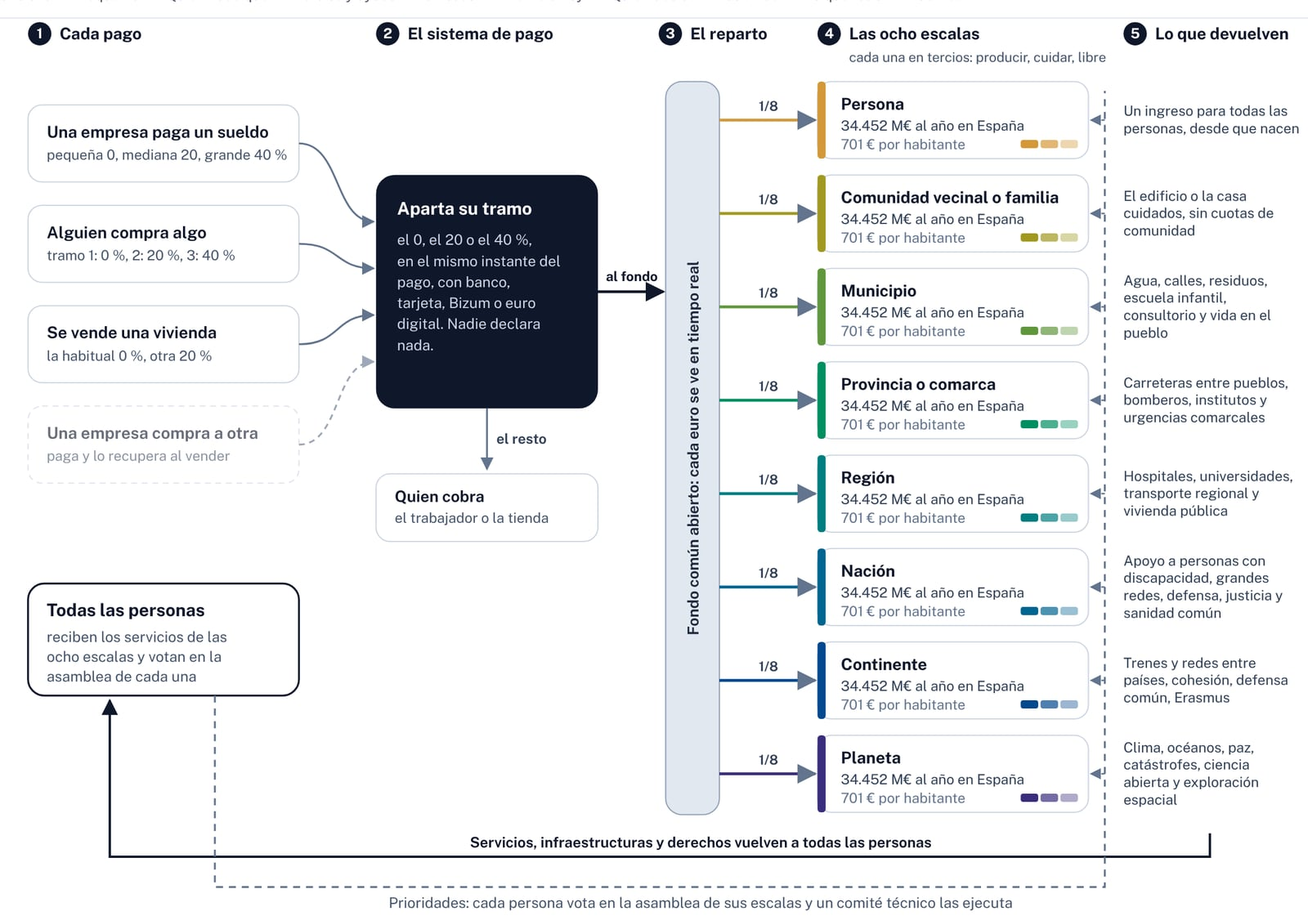
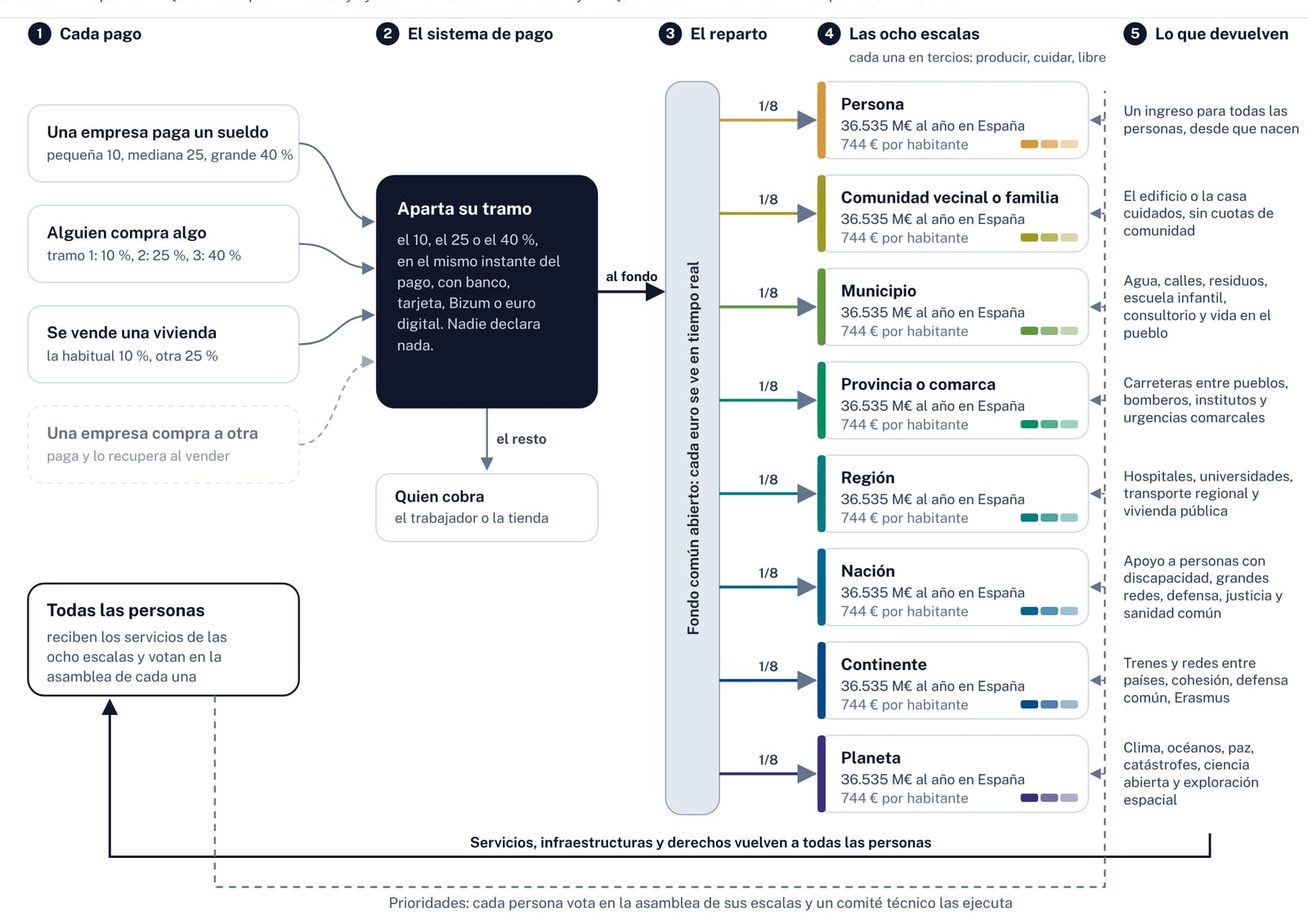
Modelo socioeconómico: tiers at 10, 25 and 40 %
Eugenio: basics pay 10 %, the middle tier 25 %, leisure and luxury 40 %.
Wages follow the same three rates by company size; the general rate for
business-to-business purchases (literal reading) is 25 %. Texts that assumed
a 0 % tier rewritten; cover image regenerated.

Claude-Session: https://claude.ai/code/session_01WLMKSBNtjPgMSjMa9TX5Hs

diff --git a/src/pages/ModeloSocioeconomico.tsx b/src/pages/ModeloSocioeconomico.tsx
@@ -1,7 +1,7 @@
 // ============================================================================
 // MODELO SOCIOECONÓMICO OPTIMIZADO (2026-11-10, Eugenio)
 // ============================================================================
-// One tax on every payment, nothing else, in three tiers (0, 20 or 40 %: by
+// One tax on every payment, nothing else, in three tiers (10, 25 or 40 %: by
 // what is bought, and for wages by the size of the company that pays them),
 // collected by the payment system itself and split in eight equal parts among
 // eight scales: person, neighbourhood or family, municipality, province, region,
@@ -73,7 +73,7 @@ export default function ModeloSocioeconomico({ enSitio }: { enSitio?: { inicio: 
     let meta = document.querySelector('meta[name="description"]') as HTMLMetaElement | null;
     const anterior = meta?.content;
     if (!meta) { meta = document.createElement('meta'); meta.name = 'description'; document.head.appendChild(meta); }
-    meta.content = 'Un único impuesto en tres tramos (0, 20 y 40 %) sobre cada pago, que el sistema de pago reparte al instante entre ocho escalas (persona, comunidad vecinal, municipio, provincia, región, nación, continente y planeta), con un tercio para producir, uno para cuidar y uno libre, comparado con el sistema fiscal español actual.';
+    meta.content = 'Un único impuesto en tres tramos (10, 25 y 40 %) sobre cada pago, que el sistema de pago reparte al instante entre ocho escalas (persona, comunidad vecinal, municipio, provincia, región, nación, continente y planeta), con un tercio para producir, uno para cuidar y uno libre, comparado con el sistema fiscal español actual.';
     return () => { document.title = titulo; if (meta) meta.content = anterior ?? ''; };
   }, []);
 
@@ -120,7 +120,7 @@ export default function ModeloSocioeconomico({ enSitio }: { enSitio?: { inicio: 
           <div>
             <h1 className="text-[2.35rem] font-[800] leading-[1.02] tracking-[-0.035em] sm:text-[3.4rem]">Modelo socioeconómico optimizado</h1>
             <p className="mt-6 max-w-[34ch] text-[1.45rem] font-medium leading-snug tracking-[-0.01em] text-slate-800 sm:text-[1.65rem]">
-              Un solo impuesto sobre cada pago, en tres tramos: nada en lo básico, un 20 % en lo secundario y un 40 % en el ocio y el lujo.
+              Un solo impuesto sobre cada pago, en tres tramos: un 10 % en lo básico, un 25 % en lo secundario y un 40 % en el ocio y el lujo.
               Llega al instante, en ocho partes iguales, a las escalas en las que vivimos.
             </p>
             <p className="mt-5 max-w-[62ch] text-[17px] leading-relaxed text-slate-600">
@@ -166,12 +166,12 @@ export default function ModeloSocioeconomico({ enSitio }: { enSitio?: { inicio: 
         <section id="como-funciona" aria-labelledby="como-funciona-titulo" className="scroll-mt-28 border-t border-slate-200 bg-white">
           <div className="mx-auto max-w-7xl px-4 py-16 sm:px-6">
             <Encabezado id="como-funciona" titulo="Cómo funciona: tres tramos y ocho partes">
-              De cada pago se aparta su tramo: nada, un 20 % o un 40 %. Lo apartado se junta y se reparte en ocho partes iguales, una por escala.
+              De cada pago se aparta su tramo: un 10 %, un 25 % o un 40 %. Lo apartado se junta y se reparte en ocho partes iguales, una por escala.
             </Encabezado>
             <ol className="grid gap-8 sm:grid-cols-2 lg:grid-cols-5">
               {[
                 { t: 'Pagas', d: 'Con tarjeta, Bizum o el móvil. El precio ya lleva su tramo dentro, como hoy el IVA.' },
-                { t: 'Se aparta el tramo', d: 'En el mismo instante, el sistema de pago separa el impuesto (0, 20 o 40\u00A0% sobre el precio sin impuesto) y el resto llega a quien cobra.' },
+                { t: 'Se aparta el tramo', d: 'En el mismo instante, el sistema de pago separa el impuesto (10, 25 o 40\u00A0% sobre el precio sin impuesto) y el resto llega a quien cobra.' },
                 { t: 'Se reparte en ocho', d: 'Lo apartado de todos los pagos se junta y cada escala recibe un octavo, lo mismo por habitante. Tu parte personal es un dividendo igual para todo el mundo.' },
                 { t: 'Cada escala, en tercios', d: 'Un tercio para comprar o mejorar medios de producción, uno para cuidados y uno libre.' },
                 { t: 'Cada escala decide', d: 'Su asamblea ciudadana elige las prioridades y su comité técnico las cumple al menor coste, de la forma más eficaz y ecológica.' },
@@ -187,7 +187,7 @@ export default function ModeloSocioeconomico({ enSitio }: { enSitio?: { inicio: 
             <div className="mt-12"><TresTramos /></div>
             <div className="mt-6"><CincoPagos /></div>
             <p className="mt-3 max-w-3xl text-sm leading-relaxed text-slate-600">
-              El tramo se suma al precio sin impuesto, como el IVA de hoy: una cena de 40 € cuesta 56 € y 16 € van al fondo. De todo lo que pagas, el fondo se queda una sexta parte en el tramo 2 y dos séptimas partes en el 3.
+              El tramo se suma al precio sin impuesto, como el IVA de hoy: una cena de 40 € cuesta 56 € y 16 € van al fondo. De todo lo que pagas, el fondo se queda una onceava parte en el tramo 1, una quinta parte en el 2 y dos séptimas partes en el 3.
             </p>
 
             <PreguntasCobro modo={modo} />
@@ -203,7 +203,7 @@ export default function ModeloSocioeconomico({ enSitio }: { enSitio?: { inicio: 
                 <div>
                   <dt className="font-semibold text-slate-900">{LECTURA_CORTA.eslabon}</dt>
                   <dd className="mt-0.5 leading-relaxed text-slate-600">
-                    La empresa paga al comprar y lo recupera al vender, como hoy el IVA. Cada producto lleva exactamente su tramo: el pan, nada; la chaqueta, el 20 %.
+                    La empresa paga al comprar y lo recupera al vender, como hoy el IVA. Cada producto lleva exactamente su tramo: el pan, el 10 %; la chaqueta, el 25 %.
                     Recauda ≈ {porcentaje(cuentasPais('eslabon').pctPIB, 0)} del PIB. Es la lectura por defecto.
                   </dd>
                 </div>

diff --git a/src/components/modeloSocioeconomico/Cuentas.tsx b/src/components/modeloSocioeconomico/Cuentas.tsx
@@ -19,7 +19,7 @@ const LECTURAS: { id: Modo; titulo: string; texto: string }[] = [
   },
   {
     id: 'literal', titulo: 'Al pie de la letra, también entre empresas',
-    texto: `Las compras entre empresas dejan además el tipo general, un ${porcentaje(TIPO_GENERAL * 100, 0)}, sin devolución. Recauda más del doble, pero el impuesto se acumula en cada eslabón de la cadena: hasta el pan del tramo 1 llega con impuesto escondido.`,
+    texto: `Las compras entre empresas dejan además el tipo general, un ${porcentaje(TIPO_GENERAL * 100, 0)}, sin devolución. Recauda más del doble, pero el impuesto se acumula en cada eslabón de la cadena: hasta el pan del tramo 1 llega con mucho más impuesto del que dice su tramo.`,
   },
 ];
 
@@ -140,10 +140,10 @@ export function LasCuentas({ modo, onModo }: { modo: Modo; onModo: (m: Modo) => 
             <h3 className="text-lg font-bold text-slate-900">Un pan del tramo 1</h3>
             <p className="mt-1 text-sm text-slate-600">El agricultor aporta 0,50 € de valor, el molino 0,30 € y la panadería 0,80 €.</p>
             <dl className="mt-3 space-y-3 text-sm">
-              <div><dt className="font-semibold text-slate-900">Sin cascada entre empresas</dt><dd className="tabular-nums text-slate-700">Cuesta {euros(pan.precioEslabon, 2)} y no lleva impuesto: {euros(pan.impuestoEslabon, 2)}.</dd></div>
+              <div><dt className="font-semibold text-slate-900">Sin cascada entre empresas</dt><dd className="tabular-nums text-slate-700">Cuesta {euros(pan.precioEslabon, 2)}, con {euros(pan.impuestoEslabon, 2)} de impuesto: su {porcentaje(TRAMO[1].tipo * 100, 0)} exacto.</dd></div>
               <div><dt className="font-semibold text-slate-900">Al pie de la letra</dt><dd className="tabular-nums text-slate-700">Cuesta {euros(pan.precioLiteral, 2)}, de los que {euros(pan.impuestoLiteral, 2)} se quedaron en el fondo por el camino: el {porcentaje((pan.impuestoLiteral / pan.precioLiteral) * 100, 0)}.</dd></div>
             </dl>
-            <p className="mt-3 text-xs leading-relaxed text-slate-500">Al pie de la letra, el tramo 1 deja de ser cero: lo pagan el molino y la panadería al comprar, y llega dentro del precio. Por eso empuja a las empresas a fusionarse para saltarse intermediarios. España tuvo un impuesto así, el IGTE, hasta que en 1986 llegó el IVA.</p>
+            <p className="mt-3 text-xs leading-relaxed text-slate-500">Al pie de la letra, el pan paga mucho más que su tramo: el molino y la panadería pagan al comprar el tipo general y llega dentro del precio. Por eso empuja a las empresas a fusionarse para saltarse intermediarios. España tuvo un impuesto así, el IGTE, hasta que en 1986 llegó el IVA.</p>
           </div>
         </div>
       </div>
@@ -234,7 +234,7 @@ export function Retos({ modo }: { modo: Modo }) {
       t: '¿Quién paga más?',
       d: (
         <>
-          La progresividad ya no sale del sueldo, sino de lo que se compra y de quién paga: con el mismo trabajo, quien está en una empresa grande aporta el 40 % de lo que vale y quien está en una pequeña, nada.
+          La progresividad ya no sale del sueldo, sino de lo que se compra y de quién paga: con el mismo trabajo, quien está en una empresa grande aporta un 40 % encima de su sueldo y quien está en una pequeña, un 10 %.
           El dividendo, igual para todas las personas, devuelve una parte. Aportación neta sobre lo que la empresa paga por cada trabajo, para el mismo hogar del caso de arriba, gastando tres cuartas partes del sueldo neto de hoy:
           <span className="mt-2 block overflow-x-auto">
             <table className="w-full min-w-[420px] text-sm tabular-nums">
@@ -259,8 +259,8 @@ export function Retos({ modo }: { modo: Modo }) {
     },
     {
       t: 'Crecer de 49 a 50 personas',
-      d: <>Con tramos por tamaño, la empresa número 50 paga de golpe el 20 % de todos sus sueldos, y la 250, el 40 %. Eso empuja a no crecer o a partirse. Contar el grupo de empresas lo frena, pero no del todo.
-        Una salida: que funcione como los tramos del IRPF, por persona contratada (las 49 primeras al 0 %, de la 50 a la 249 al 20 %, el resto al 40 %), para que crecer nunca cueste más de lo que añade.</>,
+      d: <>Con tramos por tamaño, la empresa número 50 pasa de golpe del 10 % al 25 % en todos sus sueldos, y la 250, al 40 %. Eso empuja a no crecer o a partirse. Contar el grupo de empresas lo frena, pero no del todo.
+        Una salida: que funcione como los tramos del IRPF, por persona contratada (las 49 primeras al 10 %, de la 50 a la 249 al 25 %, el resto al 40 %), para que crecer nunca cueste más de lo que añade.</>,
     },
     {
       t: 'Dónde está la línea entre necesidad y lujo',
@@ -274,7 +274,7 @@ export function Retos({ modo }: { modo: Modo }) {
     },
     {
       t: 'Comprar o alquilar una casa',
-      d: <>La vivienda en la que se vive, comprada o alquilada, va en el tramo 1 y no paga. Una segunda vivienda o una de inversión paga el {porcentaje(TRAMO[2].tipo * 100, 0)} en cada venta: {euros(200_000 * TRAMO[2].tipo)} por un piso de {euros(200_000)}, frente a los {euros(200_000 * 0.06)}–{euros(200_000 * 0.10)} del impuesto de transmisiones de hoy.
+      d: <>La vivienda en la que se vive, comprada o alquilada, va en el tramo 1, al {porcentaje(TRAMO[1].tipo * 100, 0)}. Una segunda vivienda o una de inversión paga el {porcentaje(TRAMO[2].tipo * 100, 0)} en cada venta: {euros(200_000 * TRAMO[2].tipo)} por un piso de {euros(200_000)}, frente a los {euros(200_000 * 0.06)}–{euros(200_000 * 0.10)} del impuesto de transmisiones de hoy.
         Una salida es tratar la casa usada como el resto de la cadena: que solo pague la diferencia entre lo que costó y lo que se vende.</>,
     },
     {

diff --git a/src/components/modeloSocioeconomico/EsquemaFlujos.tsx b/src/components/modeloSocioeconomico/EsquemaFlujos.tsx
@@ -1,6 +1,6 @@
 // The 2D scheme Eugenio asked for: every element, with arrows showing where
 // the money goes, how it is split and what comes back. Read left to right:
-// 1 every payment → 2 the payment system sets its tier aside (0, 20 or 40 %) →
+// 1 every payment → 2 the payment system sets its tier aside (10, 25 or 40 %) →
 // 3 the open common fund splits it in eighths → 4 each scale, in thirds, gives
 // back services; and the loop at the bottom: services go back to people,
 // people vote the priorities.
@@ -51,12 +51,12 @@ export function EsquemaFlujos({ modo, activa, onActiva, mover }: {
   const animar = mover && !poco;
 
   const pagos = [
-    { id: 'sueldo', t: 'Una empresa paga un sueldo', s: 'pequeña 0, mediana 20, grande 40 %' },
-    { id: 'compra', t: 'Alguien compra algo', s: 'tramo 1: 0 %, 2: 20 %, 3: 40 %' },
-    { id: 'vivienda', t: 'Se vende una vivienda', s: 'la habitual 0 %, otra 20 %' },
+    { id: 'sueldo', t: 'Una empresa paga un sueldo', s: 'pequeña 10, mediana 25, grande 40 %' },
+    { id: 'compra', t: 'Alguien compra algo', s: 'tramo 1: 10 %, 2: 25 %, 3: 40 %' },
+    { id: 'vivienda', t: 'Se vende una vivienda', s: 'la habitual 10 %, otra 25 %' },
     {
       id: 'empresas', t: 'Una empresa compra a otra',
-      s: modo === 'eslabon' ? 'paga y lo recupera al vender' : 'el 20 % general se queda',
+      s: modo === 'eslabon' ? 'paga y lo recupera al vender' : 'el 25 % general se queda',
       tenue: modo === 'eslabon',
     },
   ];
@@ -67,7 +67,7 @@ export function EsquemaFlujos({ modo, activa, onActiva, mover }: {
 
   return (
     <svg viewBox={`0 0 ${W} ${H}`} className="block h-auto w-full min-w-[820px] font-[inherit]" role="img"
-      aria-label="Esquema: cada pago aporta su tramo (0, 20 o 40 %) al sistema de pago, que lo pasa al fondo común; el fondo da un octavo a cada una de las ocho escalas; cada escala reparte lo suyo en tres tercios (producir, cuidar y libre) y devuelve servicios a las personas; las personas votan las prioridades de cada escala.">
+      aria-label="Esquema: cada pago aporta su tramo (10, 25 o 40 %) al sistema de pago, que lo pasa al fondo común; el fondo da un octavo a cada una de las ocho escalas; cada escala reparte lo suyo en tres tercios (producir, cuidar y libre) y devuelve servicios a las personas; las personas votan las prioridades de cada escala.">
       <defs>
         <marker id="ms-flecha" viewBox="0 0 10 10" refX="9" refY="5" markerWidth="7" markerHeight="7" orient="auto-start-reverse">
           <path d="M0 0 L10 5 L0 10 z" className="fill-slate-500" />
@@ -115,7 +115,7 @@ export function EsquemaFlujos({ modo, activa, onActiva, mover }: {
       {/* 2 · The payment system */}
       <rect x={PAS_X} y={PAS_Y} width={PAS_W} height={PAS_H} rx={16} className="fill-slate-900" />
       <text x={PAS_X + 18} y={PAS_Y + 34} fontSize={15} fontWeight={700} className="fill-white">Aparta su tramo</text>
-      {lineas('el 0, el 20 o el 40 %, en el mismo instante del pago, con banco, tarjeta, Bizum o euro digital. Nadie declara nada.', 24).map((l, k) => (
+      {lineas('el 10, el 25 o el 40 %, en el mismo instante del pago, con banco, tarjeta, Bizum o euro digital. Nadie declara nada.', 24).map((l, k) => (
         <text key={k} x={PAS_X + 18} y={PAS_Y + 60 + k * 18} fontSize={12.5} className="fill-slate-300">{l}</text>
       ))}
       {/* the rest to whoever is paid */}
@@ -215,7 +215,7 @@ export function EsquemaVertical({ modo, activa, onActiva }: { modo: Modo; activa
     <ol className="text-[15px]">
       <li className="rounded-xl border border-slate-300 bg-white p-4">
         <p className="font-bold text-slate-900">1. Cada pago</p>
-        <p className="mt-1 text-sm text-slate-600">Un sueldo (empresa pequeña 0 %, mediana 20 %, grande 40 %), una compra (tramo 1: 0 %, 2: 20 %, 3: 40 %), la venta de una vivienda{modo === 'literal' ? '; y también las compras entre empresas, al 20 %' : '. Cuando una empresa compra a otra, paga y lo recupera al vender'}.</p>
+        <p className="mt-1 text-sm text-slate-600">Un sueldo (empresa pequeña 10 %, mediana 25 %, grande 40 %), una compra (tramo 1: 10 %, 2: 25 %, 3: 40 %), la venta de una vivienda{modo === 'literal' ? '; y también las compras entre empresas, al 25 %' : '. Cuando una empresa compra a otra, paga y lo recupera al vender'}.</p>
       </li>
       <Flecha />
       <li className="rounded-xl bg-slate-900 p-4 text-white">

diff --git a/src/data/modeloSocioeconomico.ts b/src/data/modeloSocioeconomico.ts
@@ -142,7 +142,7 @@ export const ESCALAS: Escala[] = [
 export const ESCALA = Object.fromEntries(ESCALAS.map(e => [e.id, e])) as Record<EscalaId, Escala>;
 
 /** The general rate: tier 2, and what business-to-business payments carry in the literal reading. */
-export const TIPO_GENERAL = 0.20;
+export const TIPO_GENERAL = 0.25;
 /** What each scale receives of whatever is collected. */
 export const OCTAVO = 1 / ESCALAS.length;
 /** Share of a payment (tax included) that goes to the fund when the rate t goes on top of the price. */
@@ -151,13 +151,14 @@ export const fraccion = (t: number) => t / (1 + t);
 // ── THE THREE TIERS ─────────────────────────────────────────────────────────
 // The rate goes ON TOP of the price without tax, like today's VAT (Eugenio,
 // 2026-11-11): a dinner worth 40 € in tier 3 costs 56 €, and 16 € go to the fund.
-// Of every euro paid, the fund gets `fraccion(t)` = t / (1 + t): 1/6 at 20 %, 2/7 at 40 %.
+// Of every euro paid, the fund gets `fraccion(t)` = t / (1 + t): 1/11 at 10 %, 1/5 at 25 %, 2/7 at 40 %.
+// Rates 10 / 25 / 40 % (Eugenio, 2026-11-11, replacing 0 / 20 / 40); wages follow the same three rates by company size.
 // Wages too: the employer pays the wage plus its tier on top.
 export type Tramo = 1 | 2 | 3;
 export interface TramoInfo { id: Tramo; tipo: number; nombre: string; compras: string; sueldos: string }
 export const TRAMOS: TramoInfo[] = [
-  { id: 1, tipo: 0, nombre: 'Primera necesidad', compras: 'Agua, energía, la vivienda en la que se vive, movilidad, comida, salud y educación', sueldos: 'Empresas pequeñas, de menos de 50 personas' },
-  { id: 2, tipo: 0.2, nombre: 'Segunda necesidad', compras: 'Segunda vivienda, segundo vehículo, ropa, muebles, móvil e internet, seguros, cuidado personal', sueldos: 'Empresas medianas, de 50 a 249 personas' },
+  { id: 1, tipo: 0.1, nombre: 'Primera necesidad', compras: 'Agua, energía, la vivienda en la que se vive, movilidad, comida, salud y educación', sueldos: 'Empresas pequeñas, de menos de 50 personas' },
+  { id: 2, tipo: 0.25, nombre: 'Segunda necesidad', compras: 'Segunda vivienda, segundo vehículo, ropa, muebles, móvil e internet, seguros, cuidado personal', sueldos: 'Empresas medianas, de 50 a 249 personas' },
   { id: 3, tipo: 0.4, nombre: 'Ocio y lujo', compras: 'Restaurantes, bares, hoteles, viajes, ocio, alcohol, tabaco y lujo', sueldos: 'Empresas grandes, de 250 personas o más' },
 ];
 export const TRAMO = Object.fromEntries(TRAMOS.map(t => [t.id, t])) as Record<Tramo, TramoInfo>;
@@ -166,8 +167,8 @@ export const TRAMO = Object.fromEntries(TRAMOS.map(t => [t.id, t])) as Record<Tr
 export type Empleador = 'pequena' | 'mediana' | 'grande' | 'publica';
 export interface EmpleadorInfo { id: Empleador; nombre: string; corto: string; tipo: number; tramo: Tramo | null; nota?: string }
 export const EMPLEADORES: EmpleadorInfo[] = [
-  { id: 'pequena', nombre: 'Empresa pequeña (menos de 50 personas)', corto: 'Pequeña', tipo: 0, tramo: 1 },
-  { id: 'mediana', nombre: 'Empresa mediana (de 50 a 249)', corto: 'Mediana', tipo: 0.2, tramo: 2 },
+  { id: 'pequena', nombre: 'Empresa pequeña (menos de 50 personas)', corto: 'Pequeña', tipo: 0.1, tramo: 1 },
+  { id: 'mediana', nombre: 'Empresa mediana (de 50 a 249)', corto: 'Mediana', tipo: 0.25, tramo: 2 },
   { id: 'grande', nombre: 'Empresa grande (250 o más)', corto: 'Grande', tipo: 0.4, tramo: 3 },
   { id: 'publica', nombre: 'Una administración o una escala', corto: 'Administración', tipo: 0, tramo: null, nota: 'No paga: sería cobrarse a sí misma y mover dinero público de una escala a otra' },
 ];
@@ -645,7 +646,7 @@ export const HOY = {
 };
 
 // ── THE COUNTRY'S ACCOUNTS UNDER THE MODEL ──────────────────────────────────
-/** Final demand ≈ GDP plus imports (≈ 1,33 × GDP): what the business-to-business 20 % ends up inside of. Estimate. */
+/** Final demand ≈ GDP plus imports (≈ 1,33 × GDP): what the business-to-business general rate ends up inside of. Estimate. */
 const DEMANDA_FINAL = ESPANA.pib * 1.33;
 
 export function cuentasPais(modo: Modo, clasif: Clasificacion = CLASIFICACION_INICIAL) {

diff --git a/src/components/modeloSocioeconomico/TuCaso.tsx b/src/components/modeloSocioeconomico/TuCaso.tsx
@@ -141,9 +141,9 @@ export function TuCaso({ modo, ejemplo, onEjemplo }: { modo: Modo; ejemplo: Ejem
           <p className="mt-3 text-xs leading-relaxed text-slate-500">
             Por sus manos pasan {euros(r.maneja)} al año ({euros(dia(r.maneja), 2)} al día): lo que vale su trabajo más lo que compra.
             La empresa paga lo mismo que hoy; los precios cambian: la misma cesta cuesta {euros(mes(r.gastoModelo))} al mes en vez de {euros(sumaGasto(ejemplo.gasto))}.
-            Lo de primera necesidad {cambio(1) < 0 ? 'baja' : 'sube'} un {porcentaje(Math.abs(cambio(1)), 0)}, porque pierde el IVA y los impuestos especiales de hoy;
+            Lo de primera necesidad {cambio(1) < 0 ? 'baja' : 'sube'} un {porcentaje(Math.abs(cambio(1)), 0)}, porque su {porcentaje(TRAMO[1].tipo * 100, 0)} sustituye al IVA y los impuestos especiales de hoy;
             lo de segunda necesidad sube un {porcentaje(cambio(2), 0)} y el ocio y el lujo, un {porcentaje(cambio(3), 0)}
-            {modo === 'literal' ? ', contando el 20 % que se pagan las empresas entre sí y acaba dentro de los precios' : ''}.
+            {modo === 'literal' ? ', contando el 25 % que se pagan las empresas entre sí y acaba dentro de los precios' : ''}.
             De su dividendo, un tercio ({euros(r.dividendo / 3)}) va a sus participaciones en lo que produce, otro a cuidados y otro es libre.
           </p>
         </div>
@@ -178,7 +178,7 @@ export function TuCaso({ modo, ejemplo, onEjemplo }: { modo: Modo; ejemplo: Ejem
             su comunidad y su municipio, en préstamos al IPC y en un trabajo u ocupación; si llega a tener una discapacidad, en el apoyo en especie.
             Y hay menos servicios públicos: por habitante, unos {euros(serviciosModelo)} entre servicios e inversión al año en lugar de {euros(serviciosHoy)}{' '}
             (lo cuentan «Frente a hoy» y «Lo que falta por resolver»).
-            {r.tipoSueldo === 0 && ejemplo.empleador !== 'publica' && <> Gran parte de la diferencia viene de que su empresa es pequeña: su sueldo no paga nada.</>}
+            {ejemplo.empleador === 'pequena' && <> Gran parte de la diferencia viene de que su empresa es pequeña: su sueldo paga solo el {porcentaje(r.tipoSueldo * 100, 0)}.</>}
           </p>
         </div>
       </div>

diff --git a/src/components/modeloSocioeconomico/Comparativa.tsx b/src/components/modeloSocioeconomico/Comparativa.tsx
@@ -41,7 +41,7 @@ export function Piezas() {
         <h3 className="text-lg font-bold">Con el modelo: 1</h3>
         <p className="mt-1 text-sm text-slate-300">Un solo impuesto sobre cada pago, con tres tramos. Lo aparta el sistema de pago y llega ya repartido:</p>
         <div className="mt-5 flex items-stretch gap-3">
-          <span aria-hidden className="grid h-24 w-24 shrink-0 place-items-center rounded-lg bg-white text-center text-lg font-[800] leading-tight tracking-tight text-slate-900">0 · 20<br />· 40 %</span>
+          <span aria-hidden className="grid h-24 w-24 shrink-0 place-items-center rounded-lg bg-white text-center text-lg font-[800] leading-tight tracking-tight text-slate-900">10 · 25<br />· 40 %</span>
           <ul className="grid flex-1 grid-cols-2 gap-x-3 gap-y-1 text-xs text-slate-200">
             {ESCALAS.map(e => <li key={e.id} className="flex items-center gap-1.5"><Muestra color={e.color} />{e.corto}</li>)}
           </ul>
@@ -82,7 +82,7 @@ export function Costes() {
 export function Tabla({ modo }: { modo: Modo }) {
   const pais = cuentasPais(modo);
   const filas: [string, React.ReactNode, React.ReactNode][] = [
-    ['Cuántos impuestos', <>{TOTAL_FIGURAS} figuras y cientos de tasas</>, 'Uno, con tres tramos: 0, 20 y 40 %'],
+    ['Cuántos impuestos', <>{TOTAL_FIGURAS} figuras y cientos de tasas</>, 'Uno, con tres tramos: 10, 25 y 40 %'],
     ['Quién hace papeleo', 'Personas, autónomos, empresas y comunidades de vecinos: declaraciones, modelos trimestrales, liquidaciones y recibos', 'Nadie: lo aparta el sistema de pago en cada operación'],
     ['Cuándo se paga', 'Retenciones cada mes, declaraciones cada trimestre y cada año, recibos en fechas distintas', 'En el instante de cada pago'],
     ['Cómo llega el dinero a cada administración', 'Impuestos cedidos, participaciones en tributos del Estado y un sistema de financiación autonómica que se negocia políticamente y se liquida años después', 'Un octavo automático a cada escala, repartido por habitante, cada día; y en cada escala, tercios para producir, cuidar y libre'],

diff --git a/src/components/modeloSocioeconomico/AnillosEscalas.tsx b/src/components/modeloSocioeconomico/AnillosEscalas.tsx
@@ -59,7 +59,7 @@ export function AnillosEscalas({ activa, onActiva, className }: {
       })}
       <g className={`${uid}-a`} style={{ transformOrigin: '0 0', transformBox: 'view-box', pointerEvents: 'none' }}>
         <circle r={R0 - HUECO} fill="white" />
-        <text y={2} textAnchor="middle" fontSize={29} fontWeight={800} letterSpacing="-0.03em" className="fill-slate-900">0 · 20 · 40</text>
+        <text y={2} textAnchor="middle" fontSize={29} fontWeight={800} letterSpacing="-0.03em" className="fill-slate-900">10 · 25 · 40</text>
         <text y={26} textAnchor="middle" fontSize={13.5} className="fill-slate-600">% según el tramo</text>
       </g>
     </svg>

diff --git a/src/components/modeloSocioeconomico/QuienDecide.tsx b/src/components/modeloSocioeconomico/QuienDecide.tsx
@@ -6,7 +6,7 @@ import { ESCALAS } from '../../data/modeloSocioeconomico';
 import { Muestra } from './piezas';
 
 const CICLO = [
-  { t: 'Se recauda', d: 'Cada pago aparta su tramo (0, 20 o 40 %) al instante.' },
+  { t: 'Se recauda', d: 'Cada pago aparta su tramo (10, 25 o 40 %) al instante.' },
   { t: 'Se reparte', d: 'Un octavo a cada escala, lo mismo por habitante, y en cada escala en tres tercios: producir, cuidar y libre.' },
   { t: 'La asamblea elige', d: 'Las personas votan las prioridades: qué importa más este año, dentro de cada tercio.' },
   { t: 'El comité diseña', d: 'Busca la manera más barata, eficaz y ecológica de cumplirlas.' },

diff --git a/memory/03_DECISIONS.md b/memory/03_DECISIONS.md
@@ -1384,7 +1384,7 @@ Where he did not say, the page decides and says so (all in `src/data/modeloSocio
 - **Food, health and education are tier 1.** Asked; he gave no preference. Recommended option taken.
 - **Administrations pay 0 % on their own wages.** Taxing them would only move public money between scales. Alternative: treat them by size like any employer.
 - **Company size counted per group, EU thresholds (<50, 50–249, ≥250).** The page lists a marginal, IRPF-like version as an open path, because flat thresholds punish the 50th hire.
-- ~~The rate stays a share of the payment~~ → **2026-11-11, Eugenio: «como el IVA».** Every tier goes on top of the price without tax (a 40 € dinner costs 56 €, 16 € to the fund); wages too (employer pays wage + tier). The fund gets t/(1+t) of each payment: `fraccion()`. Default reading now ≈ 12 % of GDP, 521 € per person and scale.
+- ~~The rate stays a share of the payment~~ → **2026-11-11, Eugenio: «como el IVA».** Every tier goes on top of the price without tax (a 40 € dinner costs 56 €, 16 € to the fund); wages too (employer pays wage + tier). The fund gets t/(1+t) of each payment: `fraccion()`. Same day: rates 10 / 25 / 40 % (wages too, by size; administrations 0 %; general rate 25 %). Default reading ≈ 17 % of GDP, 744 € per person and scale.
 - **Household spending by tier from EPF 2024 shares**, imputed rent (≈ 19 %, estimate) taken out; tourists' spending in Spain now counted (80 % of Egatur's 134.712 M€, mostly tier 3), since imputed rent no longer offsets it.
 - **Second home share 18 %** (Fotocasa: second residence 10 % + investment 8 %); **second vehicle ≈ 1,2 points** of household spending (estimate from census vehicle counts).
 - **Private wages by size 38/16/46 %** (Cifras PYME employment shares with higher pay in large firms; estimate). Public wages 181.494 M€ (IGAE via press).

diff --git a/memory/08_CHANGELOG.md b/memory/08_CHANGELOG.md
@@ -10968,3 +10968,4 @@ Eugenio: «permite que el triciclo bala se le pueda modificar más los parámetr
 - Eugenio: «como el IVA». El 0, 20 o 40 % se suma al precio sin impuesto (y al sueldo); antes era una parte del pago. Una cena de 40 € cuesta 56 € y deja 16 € en el fondo.
 - `fraccion(t) = t/(1+t)` en `cuentasPais`, el caso y la cadena del pan; tabla de cinco pagos con «se paga en total»; hostelería ≈ +27 %.
 - Recauda ≈ 12 % del PIB por defecto (antes 16 %), 521 € por persona y escala; al pie de la letra ≈ 31 %.
+- Mismo día, Eugenio: los tramos pasan a **10 / 25 / 40 %** (lo básico paga un 10 %). Los sueldos siguen los mismos tres tipos por tamaño de empresa (pequeña 10 %, mediana 25 %, grande 40 %); las administraciones, 0 %. El tipo general de las compras entre empresas (lectura al pie de la letra) pasa al 25 %. Recauda ≈ 17 % del PIB por defecto, 744 € por persona y escala.
